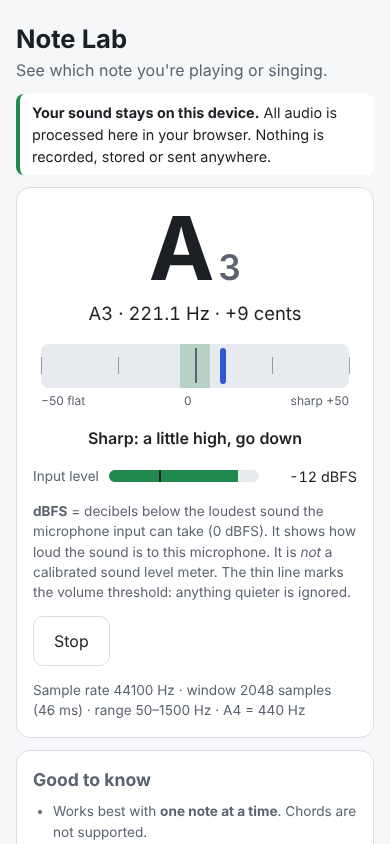
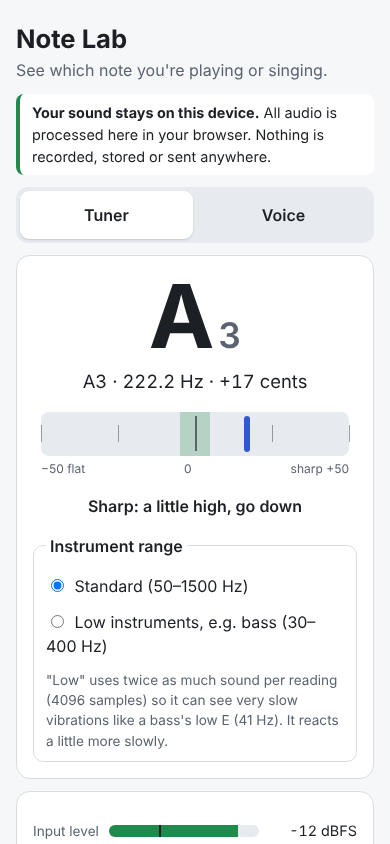
Extend browser checks to voice mode and the low tuner range
Covers range finder on the generated scale, reset, tab switching,
no-clear-pitch messages, custom range validation and bass E1.

Claude-Session: https://claude.ai/code/session_01SxLsZFKHC9uUtv3xK6kA73

diff --git a/tools/browser-test.js b/tools/browser-test.js
@@ -54,27 +54,34 @@ async function openPage(args, permissions) {
   return { browser, page, errors };
 }
 
+// A page whose "microphone" plays one of the test files (on a loop).
+const fakeMic = (file) => openPage([
+  '--use-fake-ui-for-media-stream',      // auto-accept the permission prompt
+  '--use-fake-device-for-media-stream',  // use a fake microphone...
+  `--use-file-for-fake-audio-capture=${SIGNALS}${file}`, // ...that plays this file
+  '--autoplay-policy=no-user-gesture-required',
+], ['microphone']);
+
+// Read an element 8 times over ~1.6 s; return the most common text and all readings.
+async function mostCommonText(page, selector) {
+  const seen = {};
+  await page.waitForTimeout(600);
+  for (let i = 0; i < 8; i++) {
+    const text = await page.textContent(selector);
+    seen[text] = (seen[text] || 0) + 1;
+    await page.waitForTimeout(200);
+  }
+  return { text: Object.entries(seen).sort((a, b) => b[1] - a[1])[0][0], seen };
+}
+
 try {
-  // 1. A fake microphone playing each test file.
+  // 1. Tuner: a fake microphone playing each test file.
   for (const [file, expected] of CASES) {
-    const { browser, page, errors } = await openPage([
-      '--use-fake-ui-for-media-stream',      // auto-accept the permission prompt
-      '--use-fake-device-for-media-stream',  // use a fake microphone...
-      `--use-file-for-fake-audio-capture=${SIGNALS}${file}`, // ...that plays this file
-      '--autoplay-policy=no-user-gesture-required',
-    ], ['microphone']);
+    const { browser, page, errors } = await fakeMic(file);
     await page.click('#start-button');
     await page.waitForSelector('#tuner:not([hidden])', { timeout: 5000 });
 
-    // Read the display 8 times over ~1.6 s and take the most common text.
-    const seen = {};
-    await page.waitForTimeout(600);
-    for (let i = 0; i < 8; i++) {
-      const text = await page.textContent('#note-details');
-      seen[text] = (seen[text] || 0) + 1;
-      await page.waitForTimeout(200);
-    }
-    const [mostCommon] = Object.entries(seen).sort((a, b) => b[1] - a[1])[0];
+    const { text: mostCommon, seen } = await mostCommonText(page, '#note-details');
     const level = await page.textContent('#level-text');
     report(mostCommon.startsWith(expected) && errors.length === 0, file,
       `"${mostCommon}" (level ${level}; all readings ${JSON.stringify(seen)})${errors.length ? ` errors: ${errors}` : ''}`);
@@ -87,6 +94,67 @@ try {
     // Stop must release the microphone and show the start panel again.
     await page.click('#stop-button');
     report(await page.isVisible('#start-button'), `${file}: Stop returns to start panel`);
+    await browser.close();
+  }
+
+  // 1b. Tuner low range: a 41 Hz bass E1 needs the "Low instruments" option.
+  {
+    const { browser, page, errors } = await fakeMic('bass-E1.wav');
+    await page.click('#start-button');
+    await page.check('input[name="tuner-range"][value="low"]');
+    const { text, seen } = await mostCommonText(page, '#note-details');
+    const info = await page.textContent('#tech-info');
+    report(text.startsWith('E1 · 41.2 Hz') && info.includes('4096') && !errors.length,
+      'tuner low range finds bass E1', `"${text}" ${JSON.stringify(seen)} · ${info}`);
+    await browser.close();
+  }
+
+  // 1c. Voice mode: the 5-note scale, range finder, graph.
+  {
+    const { browser, page, errors } = await fakeMic('voice-scale-C4-G4.wav');
+    await page.click('#tab-voice');
+    await page.click('#start-button');
+    await page.waitForSelector('#voice:not([hidden])', { timeout: 5000 });
+    await page.waitForTimeout(3500); // the file is 3 s long
+    const low = await page.textContent('#range-low');
+    const high = await page.textContent('#range-high');
+    const span = await page.textContent('#range-span');
+    report(low === 'C4 (261.6 Hz)' && high === 'G4 (392.0 Hz)' && !errors.length,
+      'voice: range finder on scale C4–G4', `${low} → ${high}, ${span}${errors.length ? ` errors: ${errors}` : ''}`);
+    await page.screenshot({ path: `${ROOT}docs/screenshots/voice.png`, fullPage: true });
+
+    // Reset clears the range.
+    await page.click('#range-reset');
+    report((await page.textContent('#range-low')) === '–', 'voice: Reset range clears it');
+
+    // Switching tabs keeps listening.
+    await page.click('#tab-tuner');
+    report(await page.isVisible('#tuner') && await page.isVisible('#stop-button'), 'switching to Tuner keeps listening');
+    await browser.close();
+  }
+
+  // 1d. Voice mode: no clear pitch messages, and custom range validation.
+  for (const [file, expected] of [
+    ['whisper-noise.wav', 'No clear pitch: breath, noise or a consonant'],
+    ['near-silence.wav', 'No clear pitch: too quiet (below the volume threshold)'],
+  ]) {
+    const { browser, page } = await fakeMic(file);
+    await page.click('#tab-voice');
+    await page.click('#start-button');
+    const { text } = await mostCommonText(page, '#voice-details');
+    report(text === expected, `voice: ${file}`, `"${text}"`);
+
+    if (file === 'whisper-noise.wav') {
+      await page.fill('#custom-min', '200');
+      await page.fill('#custom-max', '250');
+      await page.click('#custom-apply');
+      const error = await page.textContent('#range-error');
+      report(await page.isVisible('#range-error') && error.includes('1.5'), 'voice: too-narrow custom range is refused', `"${error}"`);
+      await page.fill('#custom-max', '500');
+      await page.click('#custom-apply');
+      const info = await page.textContent('#tech-info');
+      report(!(await page.isVisible('#range-error')) && info.includes('200–500 Hz'), 'voice: valid custom range is applied', info);
+    }
     await browser.close();
   }
 
